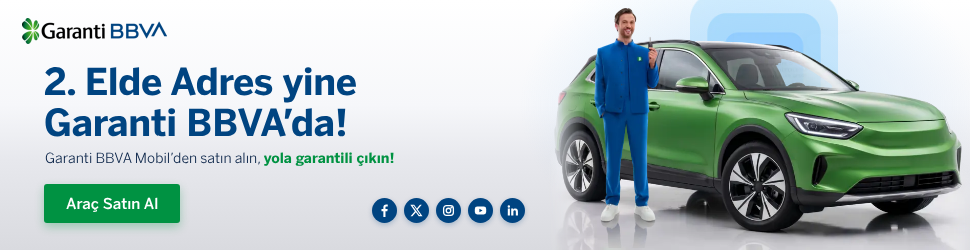
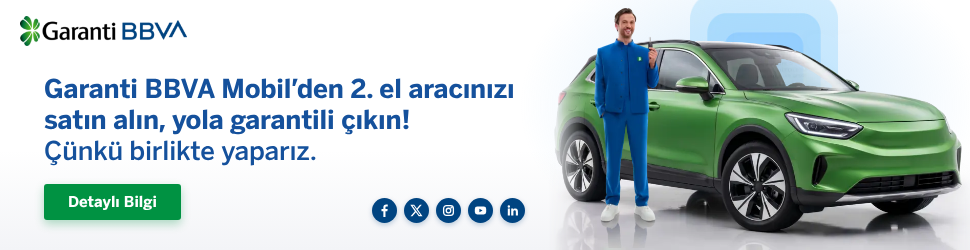
Masthead 1. sahne: KV metinleri ve başlık rengi
Başlık KV'deki üç satırlık metinle, buton 'Detaylı Bilgi' ile değiştirildi;
başlık rengi KV'den ölçülen maviye, zemin KV'deki gibi beyaza çekildi,
logo KV boyutuna büyütüldü.

Claude-Session: https://claude.ai/code/session_01Svh2Hwc9MoPZamfeY2MKHe

Changed region(s): [[0.0309, 0.252, 0.5258, 0.672], [0.0, 0.784, 0.5876, 1.0], [0.0, 0.056, 0.2165, 0.168]]

diff --git a/garanti-2el-arac-masthead/index.html b/garanti-2el-arac-masthead/index.html
@@ -7,7 +7,7 @@
 <title>Garanti BBVA 2. El Araç Masthead</title>
 <script>
   /* Ad server tıklama hedefleri */
-  var clickTag  = "https://www.garantibbva.com.tr/";   /* Sahne 1 – Araç Satın Al */
+  var clickTag  = "https://www.garantibbva.com.tr/";   /* Sahne 1 – Detaylı Bilgi */
   var clickTag2 = "https://www.garantibbva.com.tr/";   /* Sahne 2 – Değerle */
 </script>
 <style>
@@ -20,6 +20,7 @@
 :root{
   /* Garanti BBVA kurumsal renkleri (logo ve Garanti BBVA Mobil ikonu) */
   --blue:#004481;    /* BBVA mavisi – logodaki BBVA yazısı */
+  --kv-blue:#15519c; /* KV başlık mavisi */
   --navy:#072146;    /* lacivert – metin */
   --green:#009242;   /* Garanti yeşili – Garanti BBVA Mobil ikonu */
   --green-dk:#007a37;
@@ -34,17 +35,16 @@ body{font-family:"Benton Sans BBVA",Arial,sans-serif;-webkit-font-smoothing:anti
 img{position:absolute;display:block;pointer-events:none;-webkit-user-drag:none}
 
 /* ---------- SAHNE 1 · Satın Al (KV) ---------- */
-.s1{background:linear-gradient(180deg,#ffffff 0%,#f6f7fa 42%,#e7e8ed 64%,#d9dadf 100%)}
+.s1{background:linear-gradient(180deg,#ffffff 0%,#ffffff 60%,#f3f4f7 100%)}
 .s1 .glow{position:absolute;left:520px;top:-60px;width:460px;height:330px;background:radial-gradient(closest-side,rgba(146,200,245,.38),rgba(146,200,245,0));pointer-events:none}
 .s1 .ripple{left:690px;top:-6px;height:246px;opacity:.75;
   -webkit-mask-image:linear-gradient(180deg,#000 55%,transparent 92%);mask-image:linear-gradient(180deg,#000 55%,transparent 92%)}
 .s1 .car{left:548px;top:30px;width:430px;
   -webkit-mask-image:linear-gradient(90deg,transparent 0,#000 9%,#000 94%,transparent 100%);mask-image:linear-gradient(90deg,transparent 0,#000 9%,#000 94%,transparent 100%)}
 .s1 .man{left:592px;top:8px;height:240px}
-.s1 .logo{left:22px;top:18px;height:26px}
-.s1 h1{position:absolute;left:44px;top:62px;color:var(--blue);font-weight:700;font-size:37px;line-height:41px;letter-spacing:-.4px}
-.s1 .sub{position:absolute;left:45px;top:150px;color:var(--navy);font-weight:400;font-size:14px;line-height:17px}
-.s1 .sub b{font-weight:700;color:var(--green)}
+.s1 .logo{left:20px;top:16px;height:30px}
+.s1 h1{position:absolute;left:44px;top:74px;color:var(--kv-blue);font-weight:700;font-size:26px;line-height:31px;letter-spacing:-.2px}
+.s1 h1 span{font-weight:500}
 .social{position:absolute;left:372px;top:198px;display:flex;gap:7px}
 .social span{width:25px;height:25px;border-radius:50%;background:var(--blue);display:grid;place-items:center;box-shadow:0 2px 5px rgba(0,68,129,.25)}
 .social svg{width:13px;height:13px}
@@ -53,7 +53,7 @@ img{position:absolute;display:block;pointer-events:none;-webkit-user-drag:none}
 .cta:hover{transform:translateY(-1px);filter:brightness(1.07);box-shadow:0 6px 14px rgba(0,0,0,.18)}
 .cta::after{content:"";position:absolute;inset:0;border-radius:inherit;background:linear-gradient(110deg,transparent 35%,rgba(255,255,255,.45) 50%,transparent 65%);background-size:250% 100%;background-position:120% 0;animation:shine 4.5s 4s ease-in-out infinite;pointer-events:none}
 @keyframes shine{0%,70%{background-position:120% 0}100%{background-position:-120% 0}}
-.cta1{left:44px;top:184px;height:39px;padding:0 22px;font-size:15px;background:var(--green);box-shadow:0 4px 10px rgba(0,146,66,.3)}
+.cta1{left:44px;top:184px;height:36px;padding:0 24px;font-size:15px;font-weight:700;background:var(--green);box-shadow:0 4px 10px rgba(0,146,66,.3)}
 
 /* ---------- SAHNE 2 · Değerle (yeşil) ---------- */
 .s2{background:
@@ -121,9 +121,8 @@ img{position:absolute;display:block;pointer-events:none;-webkit-user-drag:none}
     <img class="car a right" src="assets/car.webp" alt="" style="animation-delay:.35s">
     <img class="man a" src="assets/man.webp" alt="" style="animation-delay:.9s">
     <img class="logo a fade" src="assets/logo.png" alt="Garanti BBVA" style="animation-delay:.1s">
-    <h1 class="a" style="animation-delay:.3s">2. Elde Adres yine<br>Garanti BBVA’da!</h1>
-    <p class="sub a" style="animation-delay:.5s">Garanti BBVA Mobil’den satın alın, <b>yola garantili çıkın!</b></p>
-    <button class="cta cta1 a" data-click="1" style="animation-delay:.7s">Araç Satın Al</button>
+    <h1 class="a" style="animation-delay:.3s">Garanti BBVA Mobil’den 2. el aracınızı<br>satın alın, yola garantili çıkın!<br><span>Çünkü birlikte yaparız.</span></h1>
+    <button class="cta cta1 a" data-click="1" style="animation-delay:.7s">Detaylı Bilgi</button>
     <div class="social a" style="animation-delay:1s" aria-hidden="true">
       <span><svg viewBox="0 0 16 16"><path fill="#fff" d="M9.2 16V9h2.3l.4-2.8H9.2V4.5c0-.8.2-1.3 1.4-1.3H12V.7C11.7.6 10.9.5 10 .5 8 .5 6.6 1.7 6.6 4v2.2H4.3V9h2.3v7z"/></svg></span>
       <span><svg viewBox="0 0 16 16"><path fill="#fff" d="M12.2 1h2.3L9.5 6.8 15.4 15h-4.6L7.2 10.2 3 15H.7L6 8.8.4 1h4.7l3.3 4.4zm-.8 12.6h1.3L4.5 2.3H3.1z"/></svg></span>

diff --git a/garanti-2el-arac-masthead/README.md b/garanti-2el-arac-masthead/README.md
@@ -2,11 +2,12 @@
 
 Kreatif ekip revizyonu:
 
-- **Marka adı:** Başlık "2. Elde Adres yine Garanti BBVA’da!" olarak güncellendi (önceden "Garanti’de").
+- **Metinler (KV'den):** 1. sahne başlığı "Garanti BBVA Mobil’den 2. el aracınızı / satın alın, yola garantili çıkın! / Çünkü birlikte yaparız.", buton "Detaylı Bilgi". Marka adı tam olarak "Garanti BBVA" geçiyor.
 - **Renkler:** Kurumsal paletle değiştirildi; kod içindeki `:root` değişkenleri:
-  - `--blue #004481` BBVA mavisi (logodaki BBVA yazısı) – başlık, sosyal ikonlar
+  - `--kv-blue #15519c` KV başlık mavisi – 1. sahne başlığı
+  - `--blue #004481` BBVA mavisi (logodaki BBVA yazısı) – sosyal ikonlar
   - `--navy #072146` lacivert – metinler, "Değerle" butonu
-  - `--green #009242` Garanti yeşili (Garanti BBVA Mobil ikonu) – "Araç Satın Al" butonu, vurgu, 2. sahne zemini
+  - `--green #009242` Garanti yeşili (Garanti BBVA Mobil ikonu) – "Detaylı Bilgi" butonu, vurgu, 2. sahne zemini
   - Önceki teal `#13a3a5` ve `#1952A0` tonları kaldırıldı.
 - **Font:** Inter yerine kurumsal **Benton Sans BBVA** (Book 400 / Medium 500 / Bold 700), Latin + Türkçe karakter alt kümesi, woff2 (`assets/`).
 
